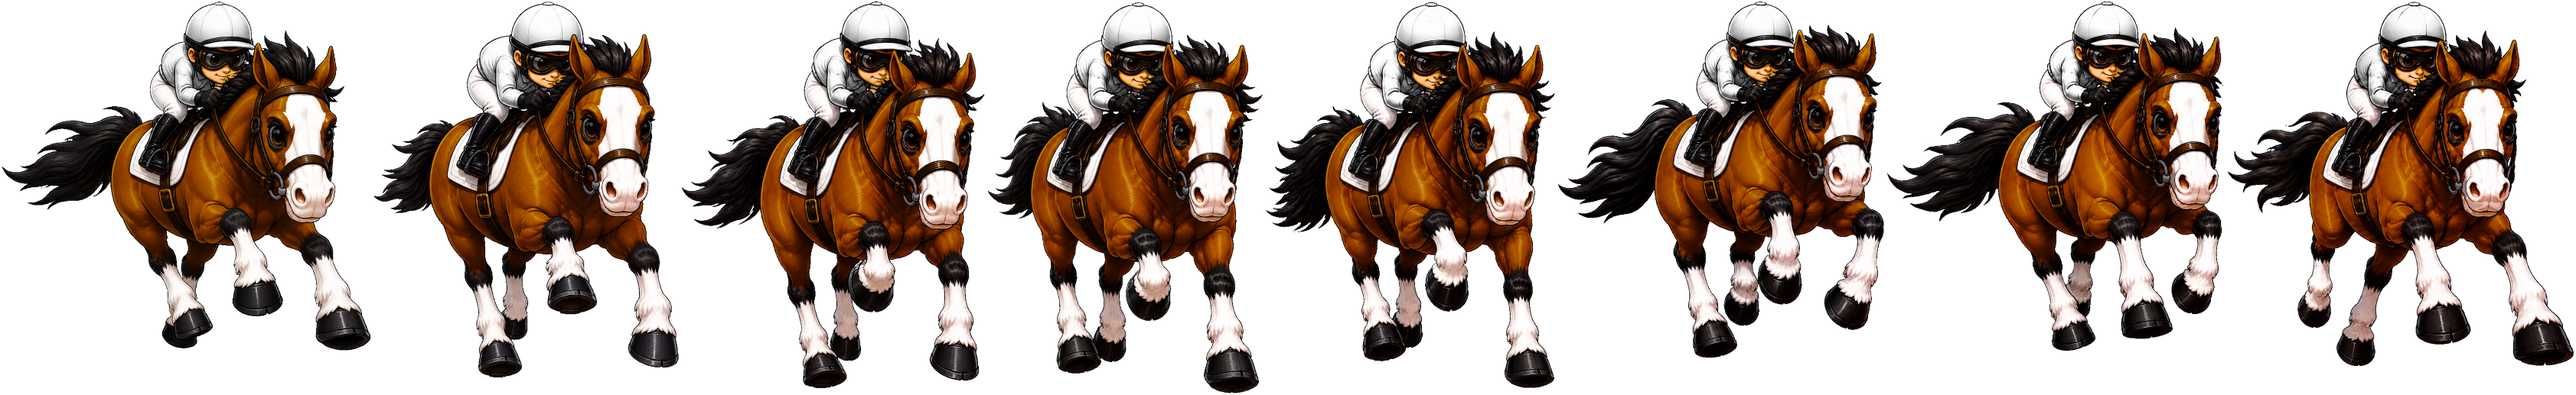
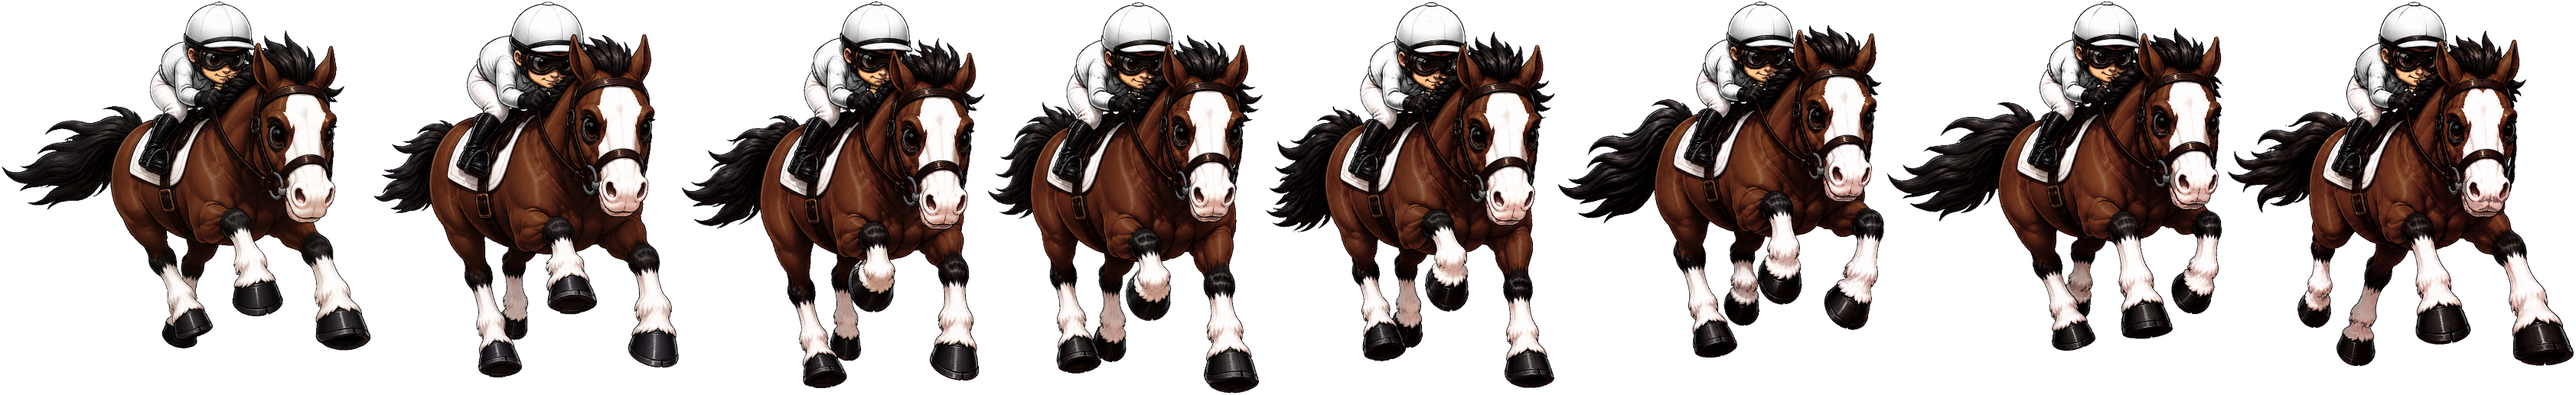
焼いた素材を 9 毛色に（D-1/D-2）／デフォルメ判定の書き忘れを直す
オーナー決定 D-1/D-2 で毛色 9 種が確定したので焼き直した。
73 ファイル 76.0MB → 91 ファイル 96.5MB（可逆 WebP 81 枚 ＋ 影 9 枚 ＋ 目録）。
ASSET_VERSION 71 → 72。

🔴 焼いて測ったら、足す前から落ちていたものが見つかった。
isDeformedHorseAsset が名前の完全一致を並べており、個体タイプ B の素材
（horse-jockey-side-v8b / diag-front-v4b）が抜けていた。歩きだけ -v1b が
書いてあり、他は書き忘れ。同じデフォルメの絵なのに写真寄りの表で焼かれていた。
coated() は表に無い毛色を「素材そのまま」にするだけなので、静かに間違う。

measure-coat-spread.mjs の実測（いちばん近い組・合格線 20 超）
  役              7 色（配っていたもの） → 9 色（修正後）
  side-v6                24 → 24 ✅
  side-v6-b              19 🔴 → 22 ✅
  diag-front-v2          22 → 22 ✅
  diag-front-v2-b        17 🔴 → 21 ✅
  side-walk              26 → 26 ✅
  diag-rear-v2           22 ✅ → 20 🔴（栗毛 ↔ 月毛）
  high-diag-v2           22 ✅ → 19 🔴（栗毛 ↔ 月毛）

落ちている 2 役は写真そのものの絵で（実物を見て確かめた）、COAT_TRANSFORMS が
掛かるのは正しい。月毛は COAT_BY_GATE に無いので、いま画面には出ない。
馬 ID から引く日までに palomino を栗毛から離す必要がある。手で動かさず
tune-coat-spread.mjs を使うこと、と簿に書いた。

網 3 本
  apps/cli/test/baked-coats.test.ts        目録の毛色が毛色の表と一致／
                                           全役に全毛色のファイルが在る
  packages/render/test/deformed-asset.test.ts 型が付いた名前もデフォルメと認める／
                                           対照として関係ない素材と新しい版は認めない
  measure-coat-spread.mjs は毛色の一覧を目録から読むようにした
  （7 色が書き写してあり、表が 9 色になっても 7 色で「合格」と言い続ける形だった）

isDeformedHorseAsset は末尾の型（b / c）を許す形にした。版（v9 等）は許さない
（新しい版が黙って当たると絵が急に変わるため）。

検証: typecheck 0 / test 2975 passed（赤 3 件は known-red の登録どおり）

diff --git a/apps/cli/test/baked-coats.test.ts b/apps/cli/test/baked-coats.test.ts
@@ -1,0 +1,76 @@
+/**
+ * 🔴 ★**焼いた素材の毛色が、毛色の表とずれないこと**（★2026-09-24・オーナー決定 D-1/D-2）
+ *
+ * ============================================================================
+ * 【★何が起きていたか】
+ *   ★毛色の表（`@star/render` の `COAT_TRANSFORMS`）に ★**月毛と白毛を足した**のに、
+ *   ★焼いた素材（`apps/web/public/art/baked/`）は ★**7 種のまま**でした。
+ *   ★いま `/race` は毛色を ★**枠番**から引く（7 種しか使わない）ので ★実害は出ていませんでした。
+ *   🔴 ★しかし ★**馬 ID から引くように変えた日**、★その 2 色で `set.coats[coat]` が
+ *      ★`undefined` になり、★**その馬だけ描けなくなります**。
+ *   ★簿 `COAT-PALOMINO-WHITE-NOT-BAKED`。
+ *
+ * 【🔴 ★なぜ機械で見張るか】
+ *   ★焼くのは ★**別の道具・別の日**です（`tools/bake-race-frames.mjs`・1 回 6 分）。
+ *   ★表に 1 行足すのは ★**5 秒**です。★この 2 つが離れている限り、★また ずれます。
+ *   → ★**表を足した時点で落ちる**ようにします。★落ちたら焼き直してください。
+ *
+ * ⚠ ★これは「★在ること」しか見ません。★月毛・白毛が ★**まともに見えるか**は別です
+ *    （★オーナーが `/design-check` の実画面で見ます）。
+ * ============================================================================
+ */
+import { describe, expect, it } from 'vitest';
+import { readFileSync, existsSync } from 'node:fs';
+import path from 'node:path';
+import { COAT_TRANSFORMS, DEFORMED_COAT_TRANSFORMS } from '@star/render';
+
+const ROOT = path.resolve(__dirname, '../../..');
+const BAKED = path.join(ROOT, 'apps/web/public/art/baked');
+const MANIFEST = path.join(BAKED, 'manifest.json');
+
+interface Manifest {
+  readonly targetHorsePx: number;
+  readonly coats: readonly string[];
+  readonly sets: readonly { readonly role: string; readonly coats: Record<string, string> }[];
+}
+
+describe('🔴 ★焼いた素材の毛色', () => {
+  it('★目録が読める（★0 件 通過を合格にしない・R-21）', () => {
+    expect(existsSync(MANIFEST), `🔴 ★${MANIFEST} が無い`).toBe(true);
+    const m = JSON.parse(readFileSync(MANIFEST, 'utf8')) as Manifest;
+    expect(m.sets.length, '🔴 ★役が 1 つも無い').toBeGreaterThan(3);
+  });
+
+  it('🔴 ★目録の毛色が、毛色の表と同じ（★足したら焼き直す）', () => {
+    const m = JSON.parse(readFileSync(MANIFEST, 'utf8')) as Manifest;
+    const table = Object.keys(COAT_TRANSFORMS).sort();
+    expect(
+      [...m.coats].sort(),
+      `🔴 ★毛色の表と焼いた素材がずれています。★\`npx tsx tools/bake-race-frames.mjs\` を流して焼き直してください。\n`
+      + `   ★表:   ${table.join(' ')}\n`
+      + `   ★目録: ${[...m.coats].sort().join(' ')}`,
+    ).toEqual(table);
+  });
+
+  it('🔴 ★2 つの毛色の表が同じ鍵を持つ（★片方だけ足せない）', () => {
+    /**
+     * ⚠ ★`CoatName = keyof typeof COAT_TRANSFORMS` なので、★型は片方しか見ていません。
+     *    ★`DEFORMED_COAT_TRANSFORMS` に足し忘れると、★デフォルメの素材だけ ★**鹿毛のまま**焼かれます
+     *    （★`coated()` は `t === undefined` を「素材そのまま」にするので、★静かに素通りします）。
+     */
+    expect(Object.keys(DEFORMED_COAT_TRANSFORMS).sort()).toEqual(Object.keys(COAT_TRANSFORMS).sort());
+  });
+
+  it('🔴 ★どの役にも、すべての毛色のファイルが在る（★目録だけ直して焼き忘れ、を止める）', () => {
+    const m = JSON.parse(readFileSync(MANIFEST, 'utf8')) as Manifest;
+    const missing: string[] = [];
+    for (const set of m.sets) {
+      for (const coat of m.coats) {
+        const file = set.coats[coat];
+        if (file === undefined) { missing.push(`${set.role}: ${coat} が目録に無い`); continue; }
+        if (!existsSync(path.join(BAKED, file))) missing.push(`${set.role}: ${file} が無い`);
+      }
+    }
+    expect(missing, `🔴 ★焼けていない組があります:\n   ${missing.join('\n   ')}`).toEqual([]);
+  });
+});

diff --git a/packages/render/test/deformed-asset.test.ts b/packages/render/test/deformed-asset.test.ts
@@ -1,0 +1,57 @@
+/**
+ * 🔴 ★**デフォルメの絵に、写真寄りの毛色表が掛からないこと**（★2026-09-24）
+ *
+ * ============================================================================
+ * 【★何が起きていたか】
+ *   ★`isDeformedHorseAsset` は ★**名前の完全一致**を並べており、
+ *   ★個体タイプ B（`horse-jockey-side-v8b` / `horse-jockey-diag-front-v4b`）が ★**抜けて**いました。
+ *   ★同じデフォルメの絵なのに ★**写真寄りの表**（`COAT_TRANSFORMS`）で焼かれていました。
+ *
+ *   ★実測（`tools/measure-coat-spread.mjs`・9 色・いちばん近い組の見分けやすさ）:
+ *     ★`side-v6`（正しく当たっていた側）  ★24 ✅
+ *     ★`side-v6-b`（抜けていた側）        ★**10**（★栗毛 ↔ 月毛）🔴  ★合格線は 20 超
+ *
+ * 【🔴 ★なぜ気づけなかったか】
+ *   ★`coated()` は ★**表に無い毛色を「素材そのまま」にするだけ**で、★何も言いません。
+ *   ★別の表を引いても ★**静かに通ります**。★焼いた絵を並べて測るまで見えませんでした。
+ *
+ * 【★この検査が見ているもの】
+ *   ★① ★型（`b` / `c`）が付いた名前も ★**デフォルメと認める**
+ *   ★② 🔴 ★**対照**: ★関係ない素材を ★**認めない**（★「全部 true」で緑にしない）
+ *   ★③ ★版（`v9` など）は ★**認めない**（★新しい版が黙って当たると絵が急に変わる）
+ * ============================================================================
+ */
+import { describe, expect, it } from 'vitest';
+import { isDeformedHorseAsset, COAT_TRANSFORMS, DEFORMED_COAT_TRANSFORMS } from '../src/coat.js';
+
+describe('🔴 ★デフォルメの絵の判定', () => {
+  it('★① 型が付いた名前も認める（★書き忘れで写真寄りの表が掛かった）', () => {
+    for (const p of [
+      'horse-jockey-side-v8', 'horse-jockey-side-v8b', 'horse-jockey-side-v8c',
+      'horse-jockey-diag-front-v4', 'horse-jockey-diag-front-v4b', 'horse-jockey-diag-front-v4c',
+      'horse-jockey-side-walk-v1', 'horse-jockey-side-walk-v1b',
+    ]) {
+      expect(isDeformedHorseAsset(p), `🔴 ★${p} がデフォルメと認められていない`).toBe(true);
+    }
+  });
+
+  it('🔴 ★② 対照: 関係ない素材は認めない', () => {
+    for (const p of [
+      'horse-jockey-diag-rear-v5', 'horse-jockey-high-diag-v4',
+      'horse-jockey-winner-rear-v1', 'horse-jockey-winner-v2',
+      'horse-jockey-side-v7', 'horse-jockey-diag-front-v2', '',
+    ]) {
+      expect(isDeformedHorseAsset(p), `🔴 ★${p} を誤ってデフォルメと認めている`).toBe(false);
+    }
+  });
+
+  it('🔴 ★③ 新しい版は認めない（★黙って当たると絵が急に変わる）', () => {
+    for (const p of ['horse-jockey-side-v9', 'horse-jockey-diag-front-v5', 'horse-jockey-side-walk-v2']) {
+      expect(isDeformedHorseAsset(p), `🔴 ★${p} が黙ってデフォルメ扱いになっている`).toBe(false);
+    }
+  });
+
+  it('🔴 ★2 つの表が同じ毛色を持つ（★片方だけ足すと、片方の絵が鹿毛のまま焼ける）', () => {
+    expect(Object.keys(DEFORMED_COAT_TRANSFORMS).sort()).toEqual(Object.keys(COAT_TRANSFORMS).sort());
+  });
+});

diff --git a/packages/render/src/coat.ts b/packages/render/src/coat.ts
@@ -286,8 +286,32 @@ export const DEFORMED_COAT_TRANSFORMS: Readonly<Record<CoatName, CoatTransform>>
   white: { saturate: 0.00, brightness: 1.95, contrast: 0.78 },
 };
 
+/**
+ * ★**デフォルメの絵か**（★＝ `DEFORMED_COAT_TRANSFORMS` を掛ける側か）。
+ *
+ * 🔴 ★**2026-09-24 に直しました。** ★ここは ★**名前の完全一致**を並べていて、
+ *    ★個体タイプ B の素材（`horse-jockey-side-v8b` / `horse-jockey-diag-front-v4b`）が
+ *    ★**抜けていました**（★歩きだけ `-v1b` が書いてあり、★他は書き忘れ）。
+ *    → ★同じデフォルメの絵なのに ★**写真寄りの表**で焼かれていました。
+ *    ★実測（`tools/measure-coat-spread.mjs`・9 色）:
+ *      ★`side-v6`（正しく当たっていた側）★いちばん近い組 24 ✅
+ *      ★`side-v6-b`（抜けていた側）      ★いちばん近い組 ★**10**（★栗毛 ↔ 月毛）🔴
+ *    ⚠ ★**静かに間違います** — ★`coated()` は表に無い毛色を「素材そのまま」にするだけで、
+ *       ★別の表を引いても何も言いません。
+ *
+ * ⚠ ★**末尾の型（`b` / `c`）を許す形にしました。** ★完全一致の並びだと、
+ *    ★型を足すたびにここを直す必要があり、★実際に 1 度 忘れています。
+ * ⚠ ★**版（`v8` / `v4`）は許しません。** ★新しい版はまず別の絵として扱い、
+ *    ★確かめてからここに足します（★勝手に当たって「絵が急に変わった」を避ける）。
+ */
+const DEFORMED_PREFIXES: readonly string[] = [
+  'horse-jockey-side-v8',
+  'horse-jockey-diag-front-v4',
+  /** ★パドックの歩きのコマ（★2026-09-15・同じデフォルメ馬の絵柄・`tools/publish-walk-frames.mjs`） */
+  'horse-jockey-side-walk-v1',
+];
 export function isDeformedHorseAsset(prefix: string): boolean {
-  return prefix === 'horse-jockey-side-v8' || prefix === 'horse-jockey-diag-front-v4'
-    /** ★パドックの歩きのコマ（★2026-09-15・同じデフォルメ馬の絵柄・`tools/publish-walk-frames.mjs`） */
-    || prefix === 'horse-jockey-side-walk-v1' || prefix === 'horse-jockey-side-walk-v1b';
+  return DEFORMED_PREFIXES.some(
+    (base) => prefix.startsWith(base) && /^[b-z]?$/.test(prefix.slice(base.length)),
+  );
 }

diff --git a/apps/web/src/app/race/page.tsx b/apps/web/src/app/race/page.tsx
@@ -415,7 +415,12 @@ function drawRendererBadge(ctx: CanvasRenderingContext2D, kind: RendererKind, st
 }
 const STRATS: readonly Strategy[] = ['nige', 'senko', 'sashi', 'oikomi'];
 /** ★素材を足したら必ず上げる。★`manifest.json` の中身を変えたときも（古いものがキャッシュされる） */
-const ASSET_VERSION = '71';
+/**
+ * ★72: ★毛色を ★**9 種**に焼き直した（★オーナー決定 D-1/D-2・2026-09-24）。
+ *   ★あわせて `isDeformedHorseAsset` の書き忘れを直したので、★**型 B の馬の色が変わります**
+ *   （★デフォルメの絵に写真寄りの表が掛かっていた）。★目録も中身も変わるので必ず上げること。
+ */
+const ASSET_VERSION = '72';
 /**
  * ★コマごとの持ち上げ量。**単位は「基準画布（高さ 1536px）での px」**。
  *
